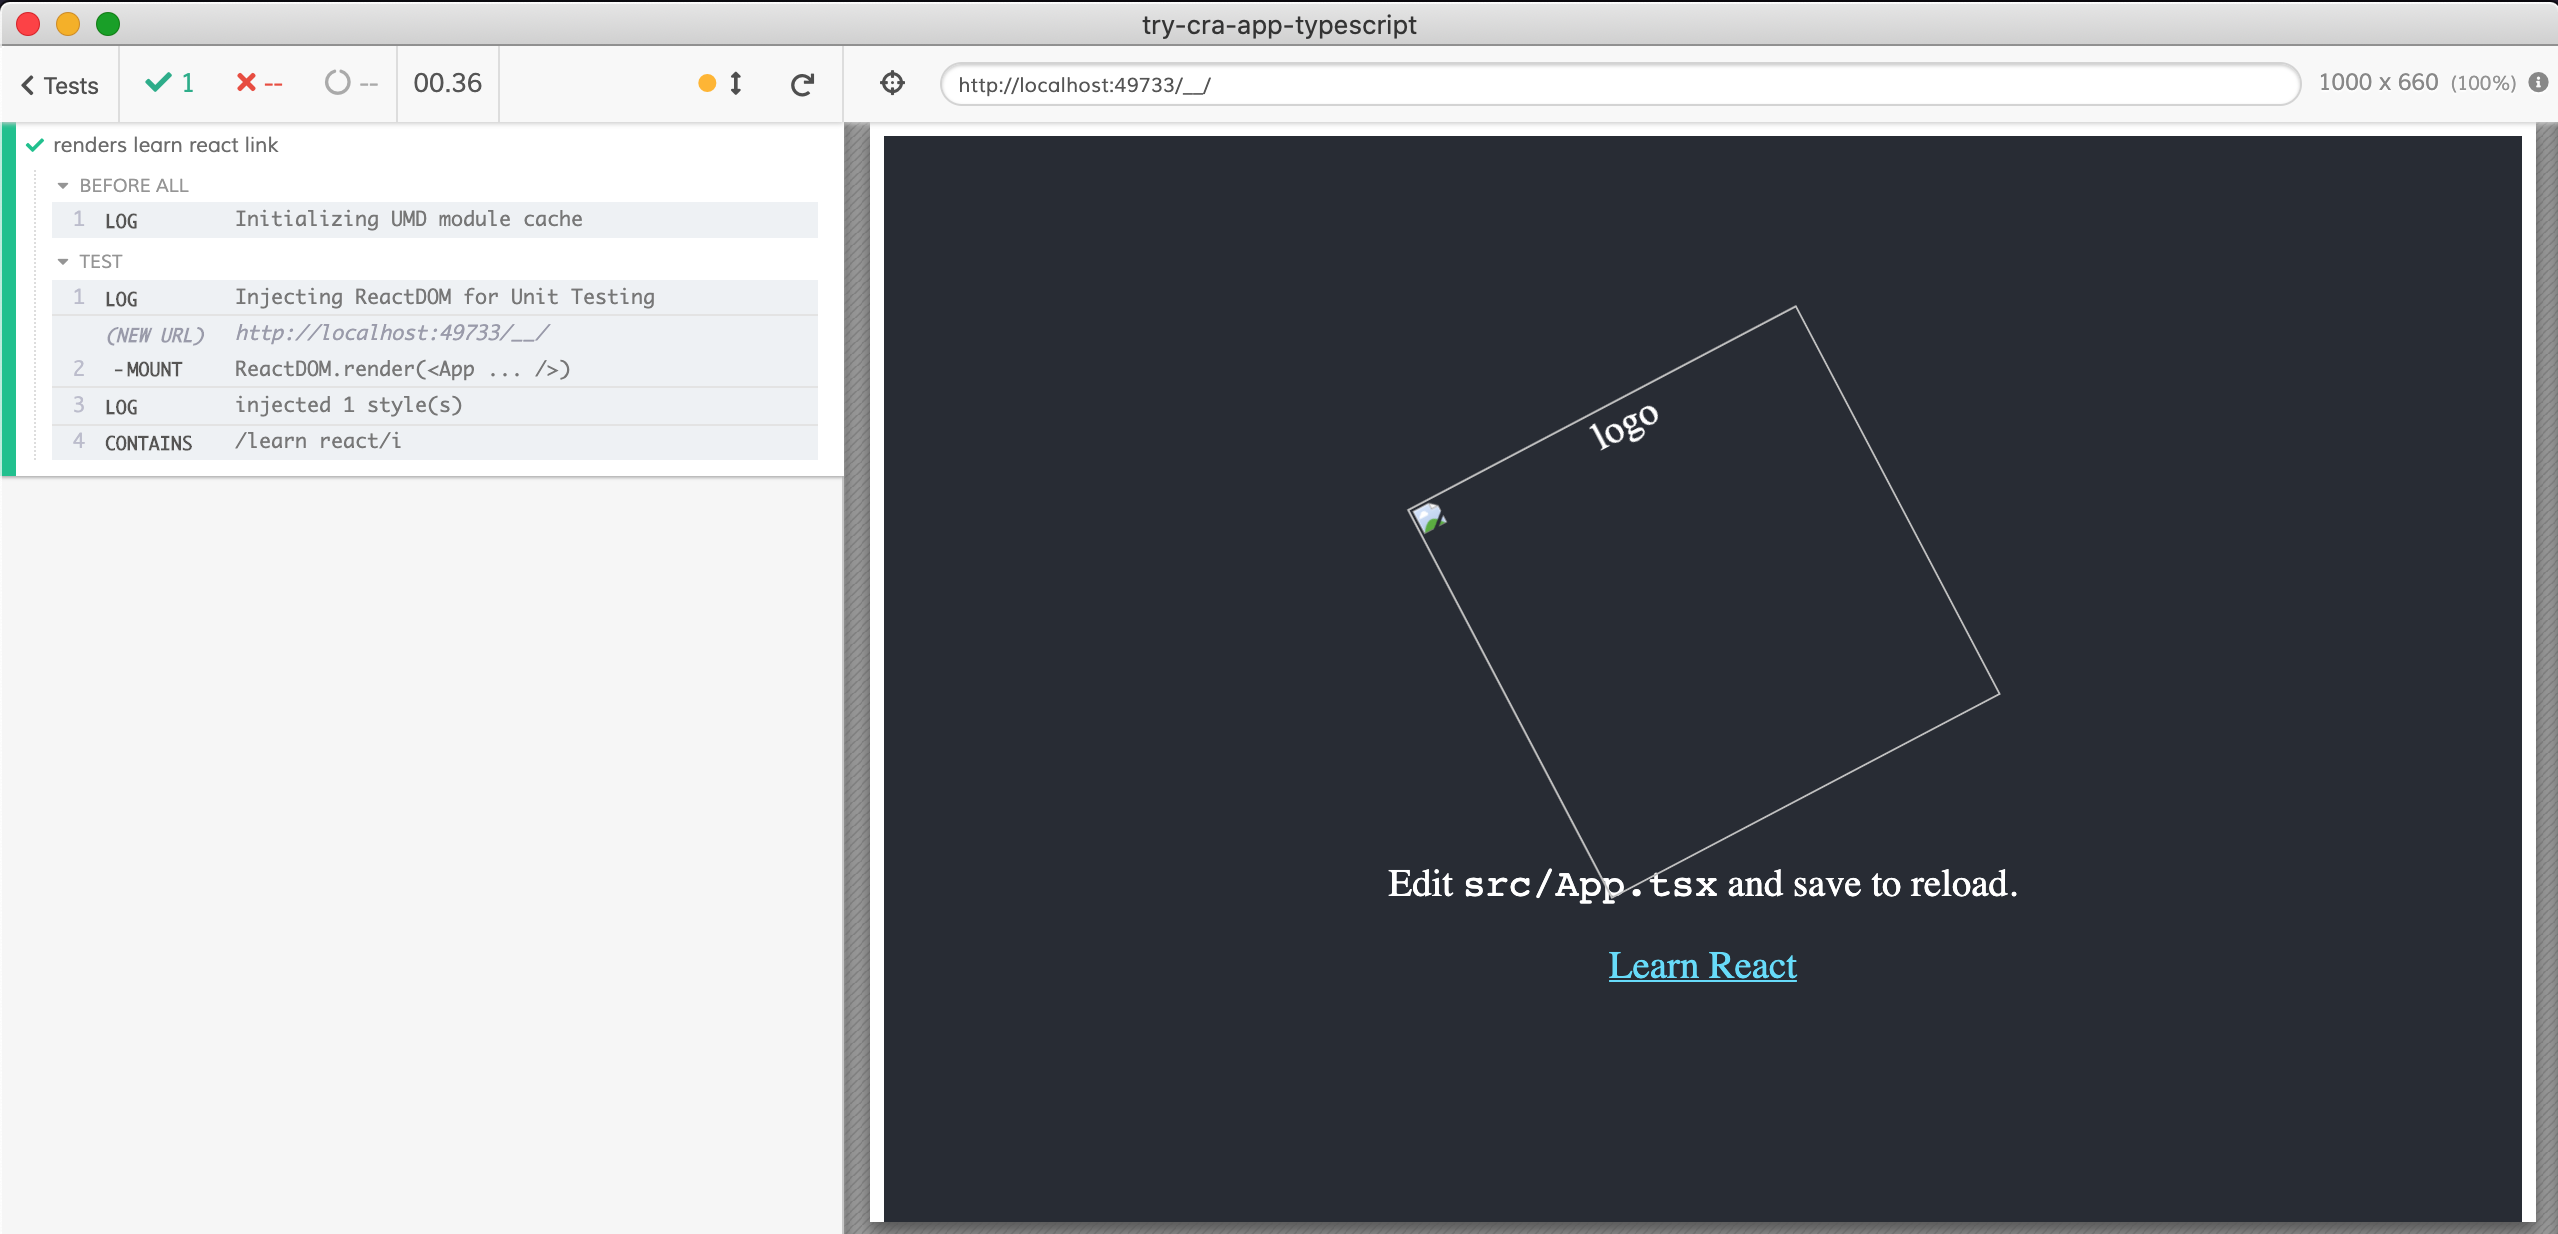
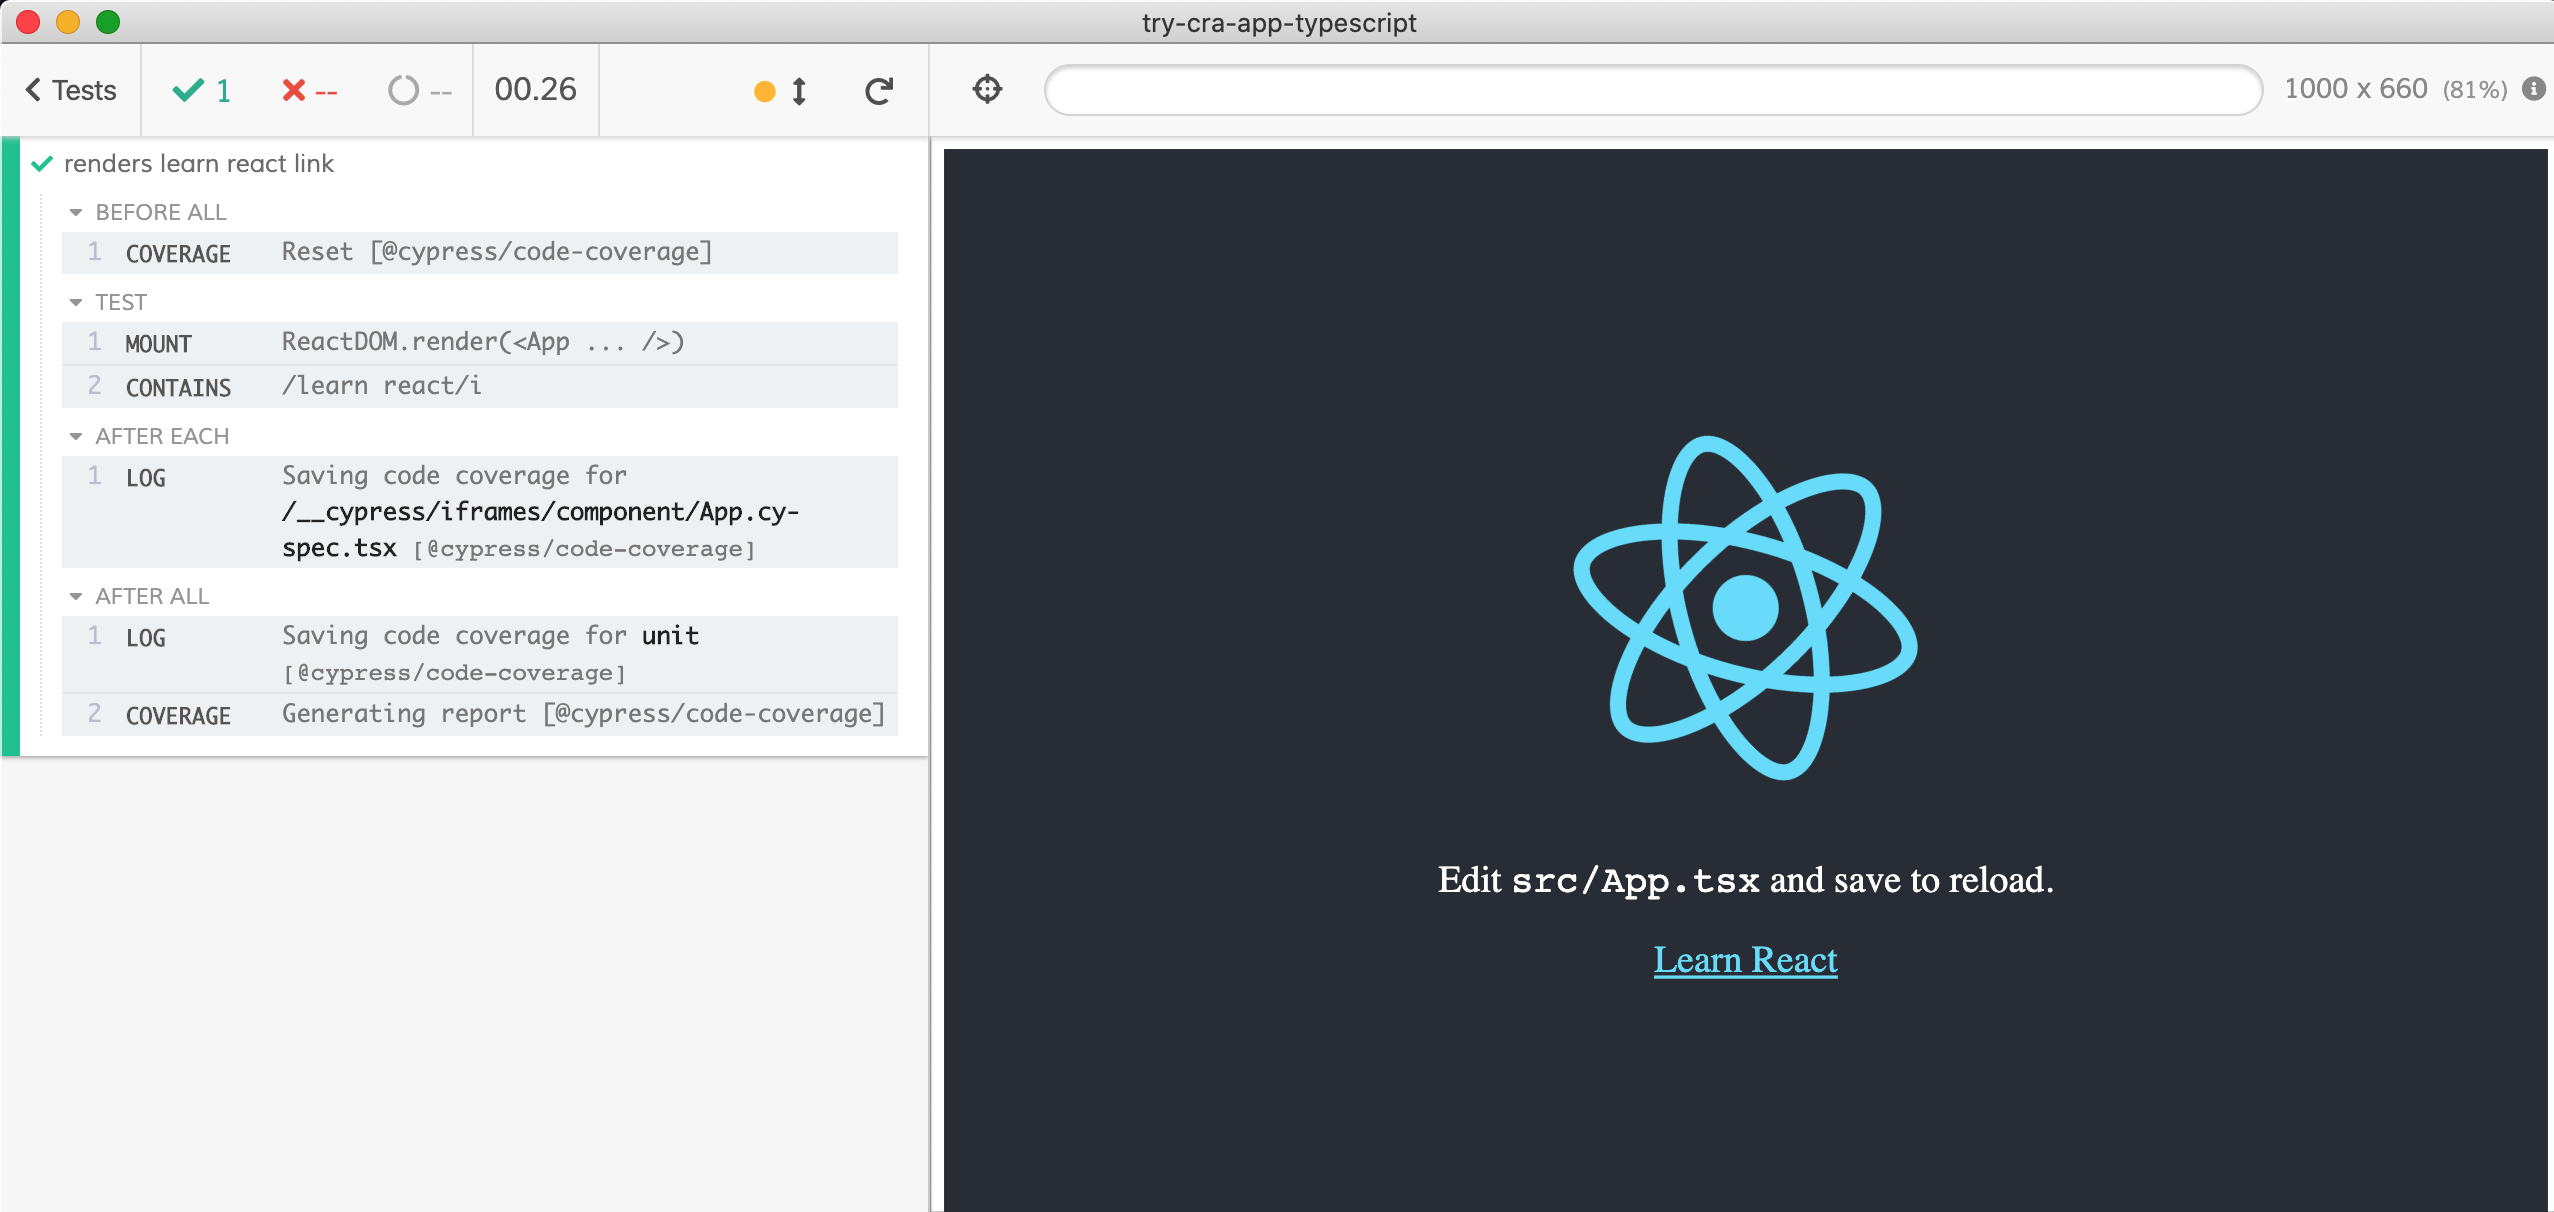
update readme and images

diff --git a/README.md b/README.md
@@ -22,16 +22,7 @@ info Direct dependencies
 
 Create [cypress.json](cypress.json) and point at the unit testing settings: support and plugins to read the create-react-app webpack config and load tests from [src](src) folder.
 
-```
-{
-  "pluginsFile": "node_modules/cypress-react-unit-test/plugins/cra-v3",
-  "supportFile": "node_modules/cypress-react-unit-test/support",
-  "integrationFolder": "src",
-  "testFiles": "**/*.cy-spec.*"
-}
-```
-
-Create [src/App.cy-spec.tsx](src/App.cy-spec.tsx) and it works in TypeScript, aside from SVG resource
+Create [src/App.cy-spec.tsx](src/App.cy-spec.tsx). Run using `yarn cypress open` and you should see the working component test.
 
 ![Working unit test](images/works.png)
 
